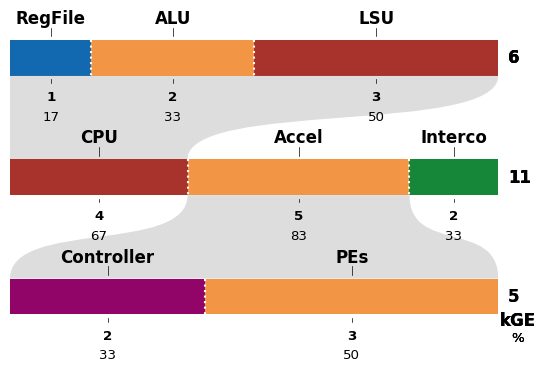
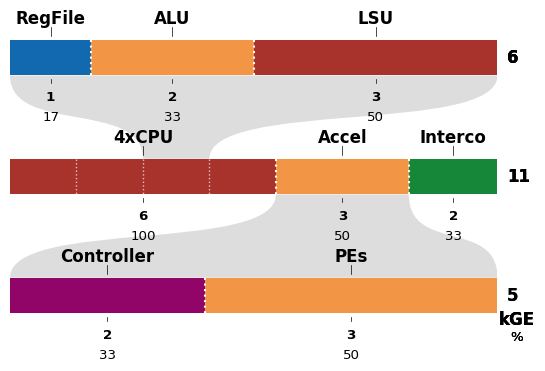
Update README

diff --git a/README.md b/README.md
@@ -40,12 +40,13 @@ The input is a JSON file that specifies the data and configuration for the plot.
         "CPU": {
             "labels": ["RegFile", "ALU", "LSU"],
             "values": [1, 2, 3],
+            "num_elements": [4, 1, 1],
             "colors": [{"$ref": "#/colors/MyBlue"}, {"$ref": "#/colors/MyOrange"}, {"$ref": "#/colors/MyRed"}],
-            "parent": "System:CPU"
+            "parent": "System:4xCPU:2"
         },
         "System" : {
-            "labels": ["CPU", "Accel", "Interco"],
-            "values": [4, 5, 2],
+            "labels": ["4xCPU", "Accel", "Interco"],
+            "values": [6, 3, 2],
             "colors": [{"$ref": "#/colors/MyRed"}, {"$ref": "#/colors/MyOrange"}, {"$ref": "#/colors/MyGreen"}]
         },
         "Accel" : {
